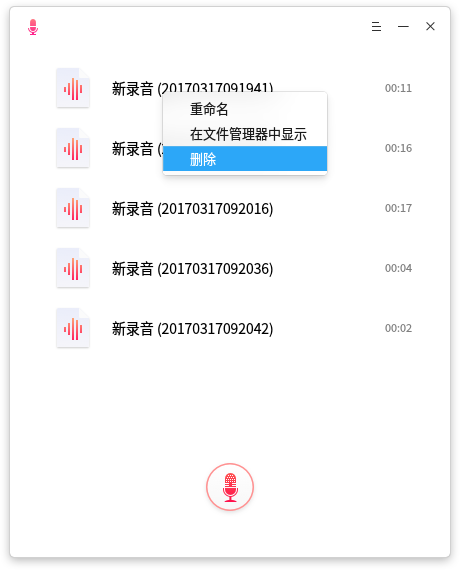
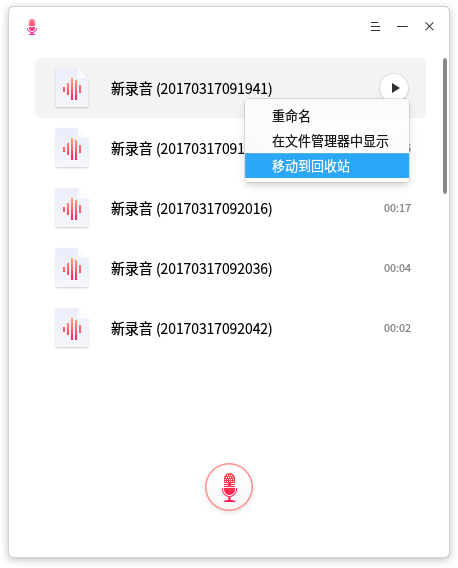
Update manual.

diff --git a/manual/en_US/index.md b/manual/en_US/index.md
@@ -22,7 +22,7 @@ You can run and colse Deepin Voice Recorder by one of the following operations, 
 ### Close Deepin Voice Recorder
 
 - On Deepin Voice Recorder interface, click on ![close](icon/close_icon.svg) to exit Deepin Voice Recorder.
-- Right click on ![deepin-voice-recorder](icon/deepin-voice-recorder.svg) on dock, select **Close all** to exit Deepin Voice Recorder.
+- Right click on ![deepin-voice-recorder](icon/deepin-voice-recorder.svg) on Dock, select **Close all** to exit Deepin Voice Recorder.
 - Click on ![icon_menu](icon/icon_menu.svg) and select **Exit** to exit Deepin Voice Recorder.
 
 ## Basic Operations|../common/icon_commoncoperat.svg|
@@ -61,21 +61,21 @@ After recording finished, it will be saved and named after "New recording (time)
 
 After recording finished, it will automatically saved in wav, you can view the file saved location by following ways:
 
-- On Deepin Voice Recorder interface， righr click on a recording file to select **Display in file manager**.
+- On Deepin Voice Recorder interface, righr click on a recording file to select **Display in file manager**.
 - On Deepin Voice Recorder interface, click on ![icon_menu](icon/icon_menu.svg) to select **Open saved directory**.
 
 ![0|file](png/file.png)
 
-### Delete Recording
+### Move to Trash
 
-After recording finished, it will list vertically, then you can delete any one not needed.
+After recording finished, it will list vertically, then you can move any one to trash.
 
 1. On Deepin Voice Recorder interface, right click on a recording file.
-2. Select **Delete** to delete.
+2. Select **Move to trash** to delete.
 
 ![0|delete](png/delete.png)
 
-## Settings|../common/icon_optionsetting.svg|
+## Main Menu|../common/icon_optionsetting.svg|
 
 ### New Recording
 
@@ -87,7 +87,7 @@ After recording finished, it will list vertically, then you can delete any one n
 
 ### Help
 
-You can click to view the manual, which will help you further know and use Deepin Voice Recorder better.
+You can click to view the manual, which will help you further know and use Deepin Voice Recorder.
 
 1. On Deepin Voice Recorder interface, click on ![icon_menu](icon/icon_menu.svg) .
 2. Click on **Help**.
@@ -105,3 +105,11 @@ You can click to view the version description.
 3. View the version description.
 
 ![0|about](png/about.png)
+
+### Exit
+
+You can click on **Exit** to exit Deepin Voice Recorder.
+
+1. On Deepin Voice Recorder interface, click on ![icon_menu](icon/icon_menu.svg).
+
+2. Click on **Exit** to exit.

diff --git a/manual/zh_CN/index.md b/manual/zh_CN/index.md
@@ -71,7 +71,7 @@
 ### 删除录音
 
 1. 在深度录音界面上，右键单击一个录音文件。
-2. 选择 **删除**。
+2. 选择 **移动到回收站**。
 
 ![0|delete](png/delete.png)
 
